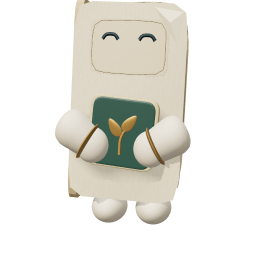
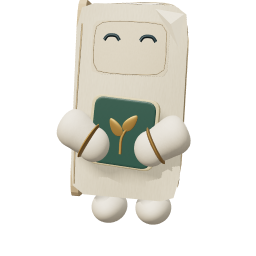
Fit continuous torso seams and thinner bowed book covers

diff --git a/src/scene/proxies.ts b/src/scene/proxies.ts
@@ -71,20 +71,21 @@ export function makeProxy(character: Character, kit: SceneKit): THREE.Group {
     if (id === 'bridge-keeper') {
       // The source is a little standing book, including actual recessed pages,
       // rounded covers, folded corner and the seedling volume held in its arms.
-      sculpt(body, 'book', '#e7d8b8', [.015, .18, .020], [.615, 1.06, .405], undefined, 'paper').name='page-block';
-      const cover=sculpt(body, 'bowedCover', '#efe3c7', [0, .18, .232], [.70, 1.12, .046], undefined, 'paper');cover.name='front-cover';
-      sculpt(body, 'bowedCover', '#d5bd96', [0, .18, -.190], [.70, 1.12, .046], [0,Math.PI,0], 'paper').name='back-cover';
-      sculpt(body, 'book', '#d2b994', [-.326, .18, .018], [.43, 1.10, .061], [0, Math.PI/2, 0], 'paper').name='book-spine';
+      sculpt(body, 'book', '#e7d8b8', [.015, .18, .012], [.615, 1.06, .30], undefined, 'paper').name='page-block';
+      const cover=sculpt(body, 'keeperCover', '#efe3c7', [0, .18, .177], [.70, 1.12, .038], undefined, 'paper');cover.name='front-cover';
+      sculpt(body, 'keeperCover', '#d5bd96', [0, .18, -.145], [.70, 1.12, .038], [0,Math.PI,0], 'paper').name='back-cover';
+      sculpt(body, 'book', '#d2b994', [-.326, .18, .012], [.33, 1.10, .061], [0, Math.PI/2, 0], 'paper').name='book-spine';
       // Separate leaf edges remain visible between the thin covers, including
       // along the top, instead of painting lines onto a padded solid block.
       for(let leaf=0;leaf<8;leaf++){
-        const z=-.151+leaf*.043;
+        const z=-.112+leaf*.035;
         stroke(body, '#bda985', [[.340, -.30, z],[.346,.18,z],[.340,.64,z]], .0022, 'paper');
         stroke(body, '#c7b492', [[-.25,.749,z],[.26,.749,z],[.324,.685,z]], .0018, 'paper');
       }
       // The warm binding stays readable at roster size while the broad pages
       // and face keep Keeper's pale-paper identity.
-      stroke(body, '#bda783', [[-.323, -.32, .235], [-.328, .08, .235], [-.312, .62, .235]], .005, 'clay');
+      const binding=stroke(body, '#bda783', [[-.323, -.32, .19], [-.328, .08, .19], [-.312, .62, .19]], .005, 'clay');
+      fitCharacterRelief(binding,cover,.002,.004);
       const facePanel=sculpt(head,'bowedCover','#e6d7b9',[0,-.021,.263],[.48,.31,.011],undefined,'paper');
       fitCharacterRelief(facePanel,cover,.002,.006);
       const faceOutline:Array<[number,number,number]>=[];
@@ -101,7 +102,7 @@ export function makeProxy(character: Character, kit: SceneKit): THREE.Group {
       const corner=sculpt(head, 'pageCorner', '#fff4da', [.22, .10, .261], [.18, .19, .075], [0, 0, -.12], 'paper');
       fitCharacterRelief(corner,cover,.003,.025);
       limbs(cream, cream, true);
-      const book = joint(body, 'seedling-book', [0, .015, .325]); book.rotation.z = -.06;book.scale.set(1.24,1.08,1);
+      const book = joint(body, 'seedling-book', [0, .015, .29]); book.rotation.z = -.06;book.scale.set(1.24,1.08,1);
       sculpt(book, 'book', '#d8c69b', [0, 0, 0], [.31, .34, .07]);
       sculpt(book, 'book', '#36574f', [0, 0, .025], [.28, .32, .04], undefined, 'glaze');
       stroke(book, gold, [[0, -.11, .052], [0, -.025, .052], [.035, .052, .052]], .007);
@@ -109,7 +110,7 @@ export function makeProxy(character: Character, kit: SceneKit): THREE.Group {
       sculpt(book, 'tuft', gold, [.035, .055, .055], [.065, .10, .017], [0, 0, -.6], 'brass');
       data.arms.forEach((arm, index) => {
         const sign=index?1:-1;
-        arm.position.z=.325;arm.position.y=.13;arm.position.x=sign*.285;
+        arm.position.z=.29;arm.position.y=.13;arm.position.x=sign*.285;
         const forearm=arm.children[0],palm=arm.children[1];
         forearm.position.set(-sign*.0225,-.1375,.0225);forearm.scale.set(.22,.27,.22);forearm.rotation.z=-sign*1.03;
         palm.position.set(-sign*.11,-.19,.045);palm.scale.set(.20,.20,.14);
@@ -245,9 +246,10 @@ export function makeProxy(character: Character, kit: SceneKit): THREE.Group {
           ring(body, '#e0bb7a', .25, [0, .125, .280]);
           stroke(body, '#e0bb7a', [[-.085, .11, .29], [-.045, .16, .29], [0, .17, .29], [.045, .16, .29], [.085, .11, .29]], .010);
           stroke(body,'#e0bb7a',[[-.113,.103,.293],[.113,.103,.293]],.007);
-          const outline=stroke(body, '#854124', [[-.23,.23,.25],[-.27,-.11,.23],[-.20,-.35,.20],[-.07,-.43,.18],[.07,-.43,.18],[.20,-.35,.20],[.27,-.11,.23],[.23,.23,.25]], .005, 'clay');
+          const seam=new THREE.CatmullRomCurve3([[-.23,.23,.25],[-.27,-.11,.23],[-.20,-.35,.20],[-.07,-.43,.18],[.07,-.43,.18],[.20,-.35,.20],[.27,-.11,.23],[.23,.23,.25]].map(p=>new THREE.Vector3(...p)));
+          const outline=stroke(body, '#924c2c', seam.getPoints(30).map(p=>[p.x,p.y,p.z]), .0038, 'clay');outline.name='merchant-chest-seam';
           outline.scale.y=1.32/1.04;
-          fitCharacterRelief(outline,body.children[0] as THREE.Mesh,.003,.010);
+          fitCharacterRelief(outline,body.children[0] as THREE.Mesh,.007,.007);
           sculpt(head, 'limb', '#aa7442', [0, .394, 0], [.04, .14, .04], undefined, 'brass');
           sculpt(head, 'detail', '#d89a48', [0, .495, 0], [.112, .134, .112], undefined, 'brass');
         }

diff --git a/src/scene/characterGeometry.ts b/src/scene/characterGeometry.ts
@@ -4,7 +4,7 @@ import { owlEyeRecess, OWL_SOCKET_RADIUS } from './characterSurface';
 
 export type CharacterForm = 'torso' | 'scoutBody' | 'helmet' | 'bridgeHelmet' | 'lanternHousing' | 'lanternBezel' | 'owlBody' | 'owlHead' | 'wing' | 'tuft' | 'embracingBody' | 'embracingArmL' | 'embracingArmR'
   | 'lanternGlass' | 'lanternCap' | 'lanternBase' | 'lanternHandle' | 'sphere' | 'bean' | 'fittedSole' | 'detail' | 'limb' | 'ankle' | 'beak' | 'ring' | 'heart' | 'neckBand'
-  | 'book' | 'bowedCover' | 'envelope' | 'cloak' | 'cape' | 'capePanel' | 'feather' | 'featherCore' | 'toe' | 'paperBody' | 'paperChestL' | 'paperChestR' | 'paperBackL' | 'paperBackR' | 'paperBrow' | 'paperEarL' | 'paperEarR' | 'paperEchoHead' | 'paperQuillHead' | 'paperWing' | 'paperTail' | 'paperDisc' | 'paperDiscL' | 'pageFold' | 'hoodTip' | 'scroll'
+  | 'book' | 'bowedCover' | 'keeperCover' | 'envelope' | 'cloak' | 'cape' | 'capePanel' | 'feather' | 'featherCore' | 'toe' | 'paperBody' | 'paperChestL' | 'paperChestR' | 'paperBackL' | 'paperBackR' | 'paperBrow' | 'paperEarL' | 'paperEarR' | 'paperEchoHead' | 'paperQuillHead' | 'paperWing' | 'paperTail' | 'paperDisc' | 'paperDiscL' | 'pageFold' | 'hoodTip' | 'scroll'
   | 'spiritBody' | 'spiritHood' | 'spiritRelayHood' | 'merchantTorso' | 'swiftBody' | 'swiftHead' | 'swiftTail' | 'swiftWingL' | 'swiftWingR' | 'paperOwlWingL' | 'paperOwlWingR' | 'paperHoldingWing' | 'paperCrownBackL' | 'paperCrownBackR' | 'wayfinderBody'
   | 'owlBrowL' | 'owlBrowR' | 'featherFanL' | 'featherFanR' | 'breastFeathers' | 'hexGlass' | 'hexCap' | 'hexBase' | 'fineRing' | 'compassStar' | 'compassNeedle' | 'compassPointer' | 'paperBeak' | 'pageCorner' | 'merchantBase' | 'spiritFigure' | 'spiritLens' | 'spiritRelay' | 'compassCowl' | 'lensCowl' | 'relayCowl';
 export type CharacterFinish = 'clay' | 'glaze' | 'ink' | 'warmInk' | 'brass' | 'amber' | 'paper' | 'feather' | 'facialFeather' | 'plumage' | 'cloth' | 'glass';
@@ -191,7 +191,7 @@ function roundedBook(): THREE.BufferGeometry {
 
 /** A flexible thin cover has a gently bowed face, not a padded cuboid. Both
  * skins share the bow and join at their edge; the page block stays separate. */
-function bowedCover():THREE.BufferGeometry {
+function bowedCover(bow=.65):THREE.BufferGeometry {
   const shape=new THREE.Shape(),r=.13;
   shape.moveTo(-.5+r,-.5);shape.lineTo(.5-r,-.5);shape.quadraticCurveTo(.5,-.5,.5,-.5+r);
   shape.lineTo(.5,.5-r);shape.quadraticCurveTo(.5,.5,.5-r,.5);shape.lineTo(-.5+r,.5);
@@ -199,7 +199,7 @@ function bowedCover():THREE.BufferGeometry {
   const boundary=shape.getSpacedPoints(32).slice(0,-1),rings=7,count=boundary.length;
   const positions:number[]=[],uv:number[]=[],indices:number[]=[];
   const add=(x:number,y:number,side:number)=>{
-    positions.push(x,y,side*.46+.65*Math.cos(x*Math.PI)*Math.cos(y*Math.PI));uv.push(x+.5,y+.5);
+    positions.push(x,y,side*.46+bow*Math.cos(x*Math.PI)*Math.cos(y*Math.PI));uv.push(x+.5,y+.5);
   };
   for(const side of [1,-1]){
     const start=positions.length/3;add(0,0,side);
@@ -227,7 +227,7 @@ function bowedCover():THREE.BufferGeometry {
   const normals=geometry.attributes.normal,normal=new THREE.Vector3();
   for(let i=0;i<layer*2;i++){
     const x=positions[i*3],y=positions[i*3+1],sign=i<layer?1:-1;
-    normal.set(.65*Math.PI*Math.sin(x*Math.PI)*Math.cos(y*Math.PI),.65*Math.PI*Math.cos(x*Math.PI)*Math.sin(y*Math.PI),1).multiplyScalar(sign).normalize();
+    normal.set(bow*Math.PI*Math.sin(x*Math.PI)*Math.cos(y*Math.PI),bow*Math.PI*Math.cos(x*Math.PI)*Math.sin(y*Math.PI),1).multiplyScalar(sign).normalize();
     normals.setXYZ(i,normal.x,normal.y,normal.z);
   }
   geometry.userData.coverSkinVertices=layer;
@@ -688,6 +688,7 @@ function makeGeometry(form: CharacterForm): THREE.BufferGeometry {
     case 'heart': return smallHeart();
     case 'book': return roundedBook();
     case 'bowedCover': return bowedCover();
+    case 'keeperCover': return bowedCover(1.4);
     case 'envelope': return folded([[-.46,-.5],[.46,-.5],[.5,-.44],[.5,.44],[.46,.5],[-.46,.5],[-.5,.44],[-.5,-.44]],.9,.02);
     case 'cloak': return softLathe([[0, -.5], [.36, -.49], [.5, -.39], [.48, -.20], [.34, .12], [.21, .36], [.09, .49], [0, .54]]);
     case 'cape': return cape();

diff --git a/docs/AVATAR-SURFACE-REVIEW.md b/docs/AVATAR-SURFACE-REVIEW.md
@@ -44,6 +44,7 @@ not asked for a desired score or instructed to approve.
 | 52 (Reflection only) | Small edge-construction improvement; no new full-set grade | Thinner free wings and quieter lower jaw retained; broad solid-looking masses and a blade-like wing tip still differ from source |
 | 53 | Portraits 8.5/10 — B+; campus 8.2/10 — B; lighting 8.3/10 | Branch attachment improves; repeated horizontal leaf tiers, sparse furnishings, solid-looking paper faces and regular feather overlaps remain |
 | 55 (Merchant only) | 8.6/10 — B+; craft 8.5 / fidelity 8.7 / all-angle 8.5 | Better Jarvis/Scout hierarchy; existing dark seam remnants, rigid Keeper silhouette, glossy shoulders and short simplified arms remain |
+| 56 (Merchant only) | 8.6/10 — B+; small construction improvement | Seam endpoints join cleanly and lower curve is smoother; thinner bowed cover is intact but Keeper remains comparatively rigid |
 
 Passes not listed were internal corrective iterations, not independent approvals.
 Pass 17 keeps pass 16's visible forms while reducing five-sided botanical stems
@@ -255,6 +256,18 @@ scale without widening the motor envelope. It retains the original standing
 height limit and floor contact. All 297 tests and the production build pass.
 An initial full-suite run overlapped portrait generation and correctly rejected
 the previous manifest; the complete rerun after generation passed.
+The compiled pass-55 worker loads dense meshes with zero pending requests and
+no observed browser warning/error. A settled zoom frame reports two dense
+avatars, 129 draws and 1,878,645 submitted triangles. A clock-driven shadow
+refresh also drew dense receivers: 296 draws / 3,810,182 triangles in one
+observed frame. These are different workloads, not a matched frame-time result;
+the fixed-hour camera benchmark does not measure that occasional refresh cost.
+
+Pass 56 makes the fitted torso seam continuous and reduces Keeper's page-block
+depth while bowing the thinner covers. A new dense-surface ray test checks more
+than fifty seam positions, not just endpoints. All 298 tests and the production
+build pass. Independent front/night/quarter/rear review retains both changes;
+Keeper's primary silhouette and the ceramic highlights still need refinement.
 
 Same-machine isolated camera-only workload, no bridge or agent activity, 1000 ×
 800 CSS canvas, 1500 × 1200 backing pixels, two-second warmup and ten-second sample.
@@ -303,6 +316,7 @@ and is not treated as close-up evidence.
 | Pass 54 campus, before eye batching | 52.50 | 2.45 / 4.30 ms | 117 / 352,427 | 0 |
 | Pass 54 campus, after eye batching | 52.40 | 2.38 / 4.20 ms | 110 / 352,427 | 0 |
 | Pass 55 campus | 53.10 | 1.94 / 3.50 ms | 110 / 352,427 | 0 |
+| Pass 56 campus | 49.50 | 2.51 / 4.00 ms | 110 / 352,795 | 0 |
 | Baseline full-face close | 45.29 | 2.61 / 3.40 ms | 46 / 303,944 | 0 |
 | Pass 14 full-face close | 50.99 | 2.50 / 4.10 ms | 147 / 2,413,677 | 3 |
 | Pass 17 full-face close | 48.99 | 2.54 / 4.20 ms | 147 / 2,417,249 | 3 |
@@ -321,6 +335,7 @@ and is not treated as close-up evidence.
 | Pass 53 full-face close | 50.90 | 2.01 / 3.80 ms | 134 / 2,387,397 | 3 |
 | Pass 54 full-face close, before eye batching | 50.10 | 2.36 / 4.30 ms | 135 / 2,407,557 | 3 |
 | Pass 55 full-face close | 52.30 | 2.00 / 3.80 ms | 135 / 2,379,397 | 3 |
+| Pass 56 full-face close | 49.40 | 2.48 / 4.20 ms | 134 / 2,408,197 | 3 |
 
 The development-only close-room selector translates this same camera by the
 actual room-grid offsets, without changing any avatar. Additional material
